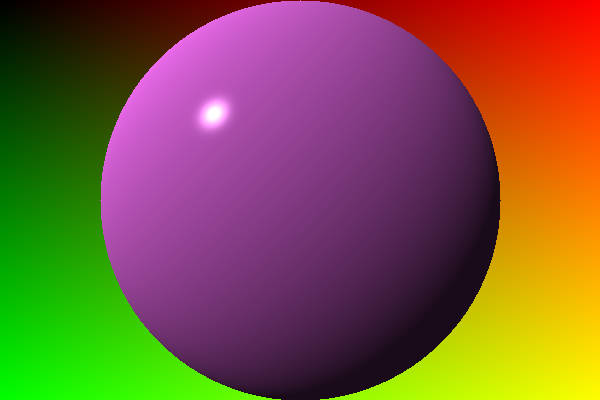
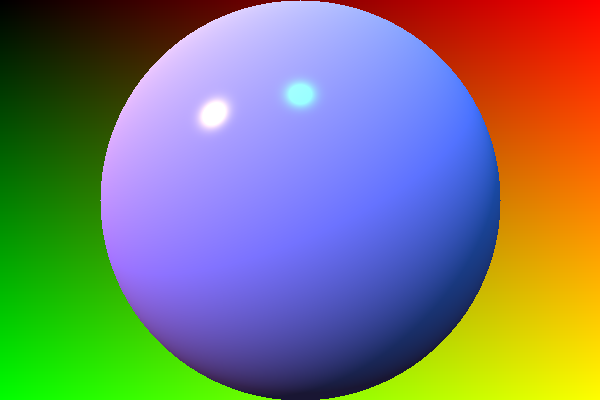
Chapter 7: Making a scene - Two light experiment

diff --git a/demo/src/main.rs b/demo/src/main.rs
@@ -111,6 +111,7 @@ fn ray_trace_with_lighting<C: Canvas<Color>>(canvas: &mut C) {
     let world = world;
 
     let light = PointLight::new(point!(-10, -10, -7), color!(1., 0.9, 1.));
+    let light2 = PointLight::new(point!(0, -10, -7), color!(0., 0.9, 1.));
 
     let fov_y = TAU / 4.; // 90°
     let z = 0.5 / (fov_y / 2.0).tan();
@@ -131,8 +132,14 @@ fn ray_trace_with_lighting<C: Canvas<Color>>(canvas: &mut C) {
                     (-ray.direction).normalize(),
                     hit.sphere.normal_at(point),
                 );
+                let color2 = hit.sphere.material.light(
+                    &light2,
+                    ray.origin,
+                    (-ray.direction).normalize(),
+                    hit.sphere.normal_at(point),
+                );
 
-                canvas.write_color(x, y, color1);
+                canvas.write_color(x, y, color1+color2);
             }
         }
     }
